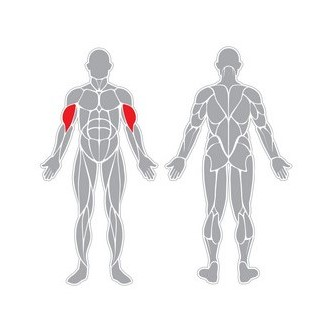
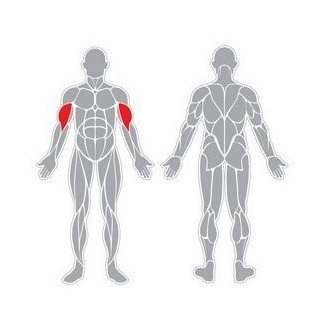
Img Sizing Fixed - Navigation Added

diff --git a/src/components/muscles-content/muscles-content.component.jsx b/src/components/muscles-content/muscles-content.component.jsx
@@ -1,7 +1,5 @@
 import React from 'react';
 
-import MuscleIcon from './muscle-icon.component';
-
 import Shoulders from '../../assets/shoulders.jpg';
 import Arms from '../../assets/biceps.jpg';
 import Chest from '../../assets/chest.jpg';
@@ -11,63 +9,81 @@ import Forearms from '../../assets/forearms.jpg';
 import UpperLegs from '../../assets/upper-legs.jpg';
 import LowerLegs from '../../assets/lower-legs.jpg';
 
+import { Link } from 'react-router-dom';
+
 const MusclesContent = () => {
     return (
-        <div className="card-deck">
+        <div className="card-deck mt-4">
             <div className="card mb-4">
-                <img className="card-img-top img-thumbnail img-fluid" src={Shoulders} style={{width: "322", height: "326"}} alt="Muscle Card " />
-                <div className="card-body">
-                    <h4 className="card-title">Shoulders</h4>
-                </div>
+                <Link to="/muscles/shoulders">
+                    <img className="card-img-top img-thumbnail img-fluid" src={Shoulders} style={{ width: "322", height: "326" }} alt="Muscle Card " />
+                    <div className="card-body">
+                        <h4 className="card-title">Shoulders</h4>
+                    </div>
+                </Link>
             </div>
             <div className="card mb-4">
-                <img className="card-img-top img-thumbnail img-fluid" src={Arms} style={{width: "322", height: "326"}} alt="Muscle Card " />
-                <div className="card-body">
-                    <h4 className="card-title">Arms</h4>
-                </div>
+                <Link to="/muscles/arms">
+                    <img className="card-img-top img-thumbnail img-fluid" src={Arms} style={{ width: "322", height: "326" }} alt="Muscle Card " />
+                    <div className="card-body">
+                        <h4 className="card-title">Arms</h4>
+                    </div>
+                </Link>
             </div>
             <div className="w-100 d-none d-sm-block d-md-none"></div>
             <div className="card mb-4">
-                <img className="card-img-top img-thumbnail img-fluid" src={Chest} style={{width: "322", height: "326"}} alt="Muscle Card " />
-                <div className="card-body">
-                    <h4 className="card-title">Chest</h4>
-                </div>
+                <Link to="/muscles/chest">
+                    <img className="card-img-top img-thumbnail img-fluid" src={Chest} style={{ width: "322", height: "326" }} alt="Muscle Card " />
+                    <div className="card-body">
+                        <h4 className="card-title">Chest</h4>
+                    </div>
+                </Link>
             </div>
             <div className="w-100 d-none d-md-block d-lg-none"></div>
             <div className="card mb-4">
-                <img className="card-img-top img-thumbnail img-fluid" src={Back} style={{width: "322", height: "326"}} alt="Muscle Card " />
-                <div className="card-body">
-                    <h4 className="card-title">Back</h4>
-                </div>
+                <Link to="/muscles/back">
+                    <img className="card-img-top img-thumbnail img-fluid" src={Back} style={{ width: "322", height: "326" }} alt="Muscle Card " />
+                    <div className="card-body">
+                        <h4 className="card-title">Back</h4>
+                    </div>
+                </Link>
             </div>
             <div className="w-100 d-none d-sm-block d-md-none"></div>
             <div className="w-100 d-none d-lg-block d-xl-none"></div>
             <div className="card mb-4">
-                <img className="card-img-top img-thumbnail img-fluid" src={Abs} style={{width: "322", height: "326"}} alt="Muscle Card " />
-                <div className="card-body">
-                    <h4 className="card-title">Abs</h4>
-                </div>
+                <Link to="/muscles/abs">
+                    <img className="card-img-top img-thumbnail img-fluid" src={Abs} style={{ width: "322", height: "326" }} alt="Muscle Card " />
+                    <div className="card-body">
+                        <h4 className="card-title">Abs</h4>
+                    </div>
+                </Link>
             </div>
             <div className="w-100 d-none d-xl-block"></div>
             <div className="card mb-4">
-                <img className="card-img-top img-thumbnail img-fluid" src={Forearms} style={{width: "322", height: "326"}} alt="Muscle Card " />
-                <div className="card-body">
-                    <h4 className="card-title">Forearms</h4>
-                </div>
+                <Link to="/muscles/forearms">
+                    <img className="card-img-top img-thumbnail img-fluid" src={Forearms} style={{ width: "322", height: "326" }} alt="Muscle Card " />
+                    <div className="card-body">
+                        <h4 className="card-title">Forearms</h4>
+                    </div>
+                </Link>
             </div>
             <div className="w-100 d-none d-sm-block d-md-none"></div>
             <div className="w-100 d-none d-md-block d-lg-none"></div>
             <div className="card mb-4">
-                <img className="card-img-top img-thumbnail img-fluid" src={UpperLegs} style={{width: "322", height: "326"}} alt="Muscle Card " />
-                <div className="card-body">
-                    <h4 className="card-title">Upper Legs</h4>
-                </div>
+                <Link to="/muscles/upper-legs">
+                    <img className="card-img-top img-thumbnail img-fluid" src={UpperLegs} style={{ width: "322", height: "326" }} alt="Muscle Card " />
+                    <div className="card-body">
+                        <h4 className="card-title">Upper Legs</h4>
+                    </div>
+                </Link>
             </div>
             <div className="card mb-4">
-                <img className="card-img-top img-thumbnail img-fluid" src={LowerLegs} style={{width: "322", height: "326"}} alt="Muscle Card " />
-                <div className="card-body">
-                    <h4 className="card-title">Lower Legs</h4>
-                </div>
+                <Link to="/muscles/lower-legs">
+                    <img className="card-img-top img-thumbnail img-fluid" src={LowerLegs} style={{ width: "322", height: "326" }} alt="Muscle Card " />
+                    <div className="card-body">
+                        <h4 className="card-title">Lower Legs</h4>
+                    </div>
+                </Link>
             </div>
         </div>
     );
